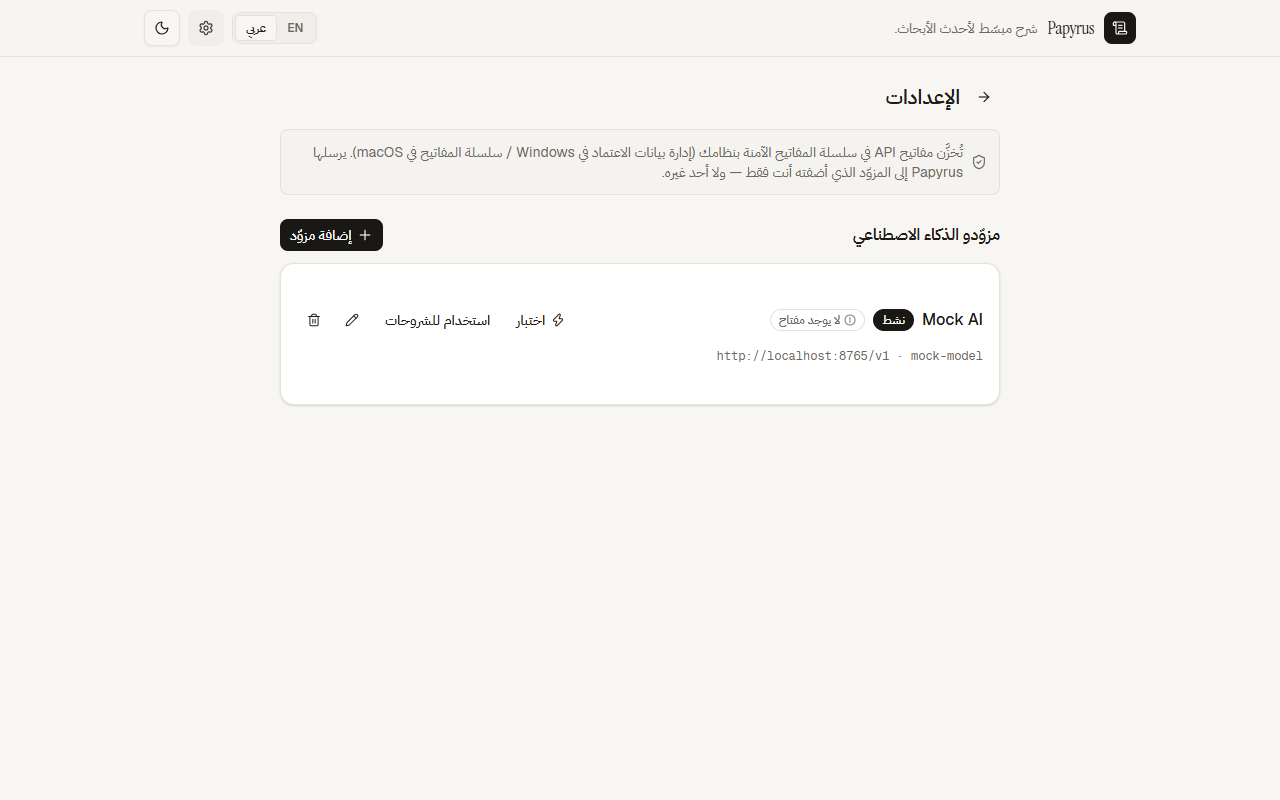
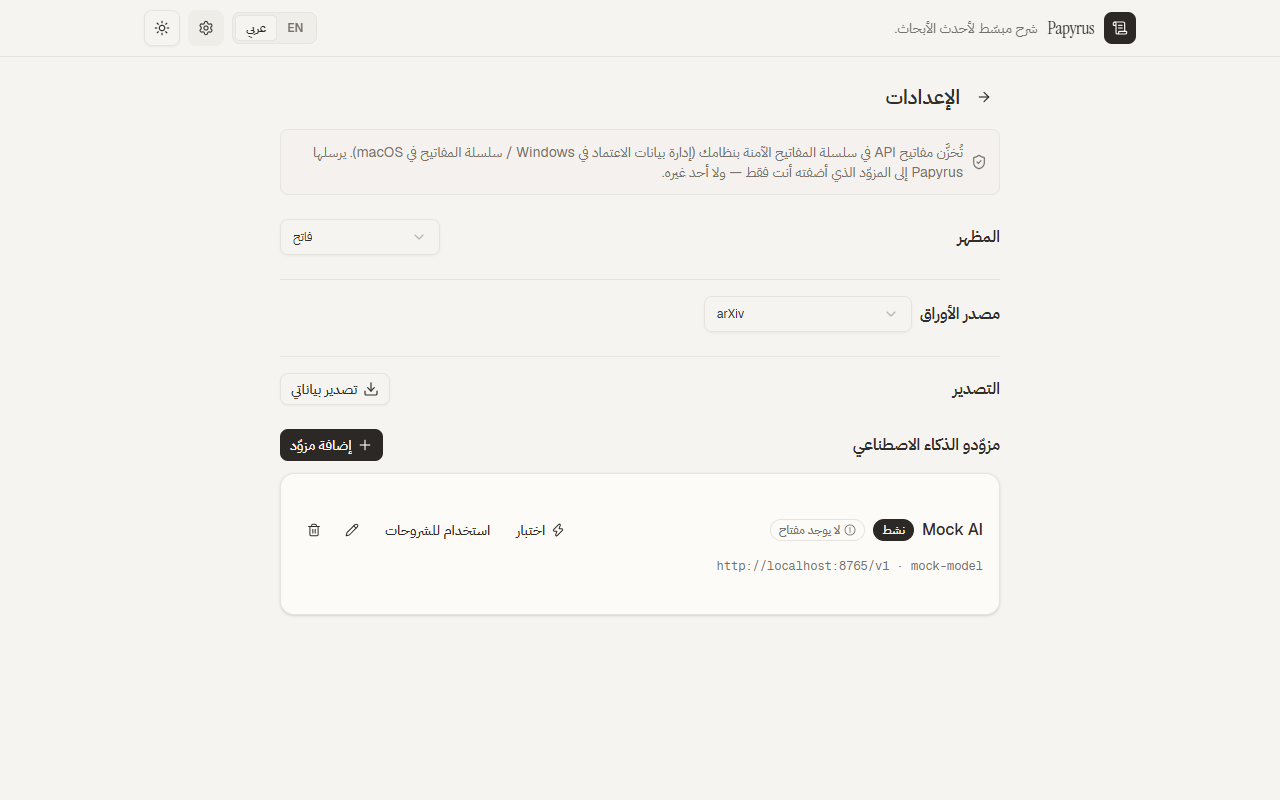
docs: refresh README for the shipped features and re-capture screenshots
- features table: corrected the Bilingual row (IBM Plex Sans Arabic,
  not Cairo), the theme row now lists the three palettes, and new rows
  cover citation counts, load more, the Semantic Scholar source,
  provider failover and data export; the PDF reader row mentions
  shortcuts, position memory and copy
- audit row test counts updated (128 frontend / 70 Rust)
- roadmap: removed shipped items (failover, second source), added the
  curated daily selection spike and the optional S2 key
- project layout: plans folder description updated (13 plans)
- how-to and paper-flow sections describe the new theme picker and the
  source switcher
- screenshots re-captured against the current UI

diff --git a/README.md b/README.md
@@ -18,21 +18,26 @@ react-i18next. Backend logic is written in Rust.
 
 ## Features
 
-| Feature             | What it does                                                                                                                                                  |
-| ------------------- | ------------------------------------------------------------------------------------------------------------------------------------------------------------- |
-| Latest papers       | Fetches the newest arXiv papers, newest first, for 6 fields (AI, machine learning, language, vision, neural networks, statistics) plus free keyword search    |
-| Browse by day       | Step back through any past day (arXiv date-range queries), or pick a day from the collected history list                                                      |
-| Daily history       | The app automatically collects each day's papers for the current field (last 14 days on first launch, 30 days kept), so past days are always available        |
-| AI explanations     | Explains any paper in 200 to 300 plain words, streamed live, in the language of the interface (English or Arabic)                                             |
-| Markdown answers    | AI answers render as real markdown: headings, lists, tables, math equations (KaTeX) and mermaid diagrams, styled to the app and RTL-aware                     |
-| In-app PDF reader   | Open any paper's PDF inside the app: page navigation, zoom, find-in-page search with highlights, and text selection. PDFs are cached on disk                  |
-| Whole-paper mentor  | The mentor reads the paper section by section and explains each one (press Continue between sections), then gives a final synthesis of the whole paper        |
-| Paper chat          | Ask anything about the paper in the Ask tab. Answers are grounded in the paper, and any passage you select in the PDF becomes context for your question       |
-| Your providers      | Works with OpenAI, OpenRouter, DeepSeek, Groq, Mistral, Ollama (local) or any custom base URL and model name                                                  |
-| Privacy first       | API keys live in the OS keychain (Windows Credential Manager / macOS Keychain). Paper fetching and AI calls happen in the Rust backend, never in the web page |
-| Bilingual           | Instant English to Arabic switching, full RTL layout, Cairo font                                                                                              |
-| Light and dark mode | Theme toggle, remembered between sessions                                                                                                                     |
-| Favorites           | Bookmark papers and filter the list to show only saved ones                                                                                                   |
+| Feature             | What it does                                                                                                                                                                                                                                    |
+| ------------------- | ----------------------------------------------------------------------------------------------------------------------------------------------------------------------------------------------------------------------------------------------- |
+| Latest papers       | Fetches the newest arXiv papers, newest first, for 6 fields (AI, machine learning, language, vision, neural networks, statistics) plus free keyword search                                                                                      |
+| Browse by day       | Step back through any past day (arXiv date-range queries), or pick a day from the collected history list                                                                                                                                        |
+| Daily history       | The app automatically collects each day's papers for the current field (last 14 days on first launch, 30 days kept), so past days are always available                                                                                          |
+| AI explanations     | Explains any paper in 200 to 300 plain words, streamed live, in the language of the interface (English or Arabic)                                                                                                                               |
+| Markdown answers    | AI answers render as real markdown: headings, lists, tables, math equations (KaTeX) and mermaid diagrams, styled to the app and RTL-aware                                                                                                       |
+| In-app PDF reader   | Open any paper's PDF inside the app: page navigation, zoom, find-in-page search with highlights, and text selection. Keyboard shortcuts (arrows, Ctrl/Cmd+F), reading position memory, one-click copy of any selection. PDFs are cached on disk |
+| Whole-paper mentor  | The mentor reads the paper section by section and explains each one (press Continue between sections), then gives a final synthesis of the whole paper                                                                                          |
+| Paper chat          | Ask anything about the paper in the Ask tab. Answers are grounded in the paper, and any passage you select in the PDF becomes context for your question                                                                                         |
+| Your providers      | Works with OpenAI, OpenRouter, DeepSeek, Groq, Mistral, Ollama (local) or any custom base URL and model name                                                                                                                                    |
+| Privacy first       | API keys live in the OS keychain (Windows Credential Manager / macOS Keychain). Paper fetching and AI calls happen in the Rust backend, never in the web page                                                                                   |
+| Bilingual           | Instant English to Arabic switching, full RTL layout, bundled IBM Plex Sans Arabic font                                                                                                                                                         |
+| Three themes        | Light (soft, low-contrast day palette), Sepia (warm paper for reading) and Dark, switched from the top bar or the Appearance select in Settings                                                                                                 |
+| Favorites           | Bookmark papers and filter the list to show only saved ones                                                                                                                                                                                     |
+| Citation counts     | "Cited by N" on every card from Semantic Scholar (batched, cached on disk for 7 days, failure-proof)                                                                                                                                            |
+| Load more           | Fetch the next page of papers instead of stopping at 20                                                                                                                                                                                         |
+| Second paper source | Semantic Scholar search (citation counts, TLDRs, venues) with automatic fallback to arXiv and a dismissible notice when it happens                                                                                                              |
+| Provider failover   | If the active AI provider fails, the next one in your list answers automatically ("Explained by ..." note)                                                                                                                                      |
+| Export your data    | One click exports your saved papers and chat transcripts to a timestamped JSON file in Documents                                                                                                                                                |
 
 ## Screenshots
 
@@ -68,11 +73,15 @@ Papyrus has two parts that talk to each other:
 ```
 
 **The paper flow.** When you pick a field (for example cs.AI), the frontend
-asks the Rust backend for the newest papers. The backend calls the arXiv
-API, parses the XML answer, and returns a list of papers with title,
-authors, date, abstract, categories and a PDF link. arXiv sends no
-permission headers for browser calls, so this always happens in the
-backend, never directly from the web page.
+asks the Rust backend for the newest papers. By default the backend calls
+the arXiv API, parses the XML answer, and returns a list of papers with
+title, authors, date, abstract, categories and a PDF link. A source
+select in Settings switches to Semantic Scholar (search-only): the
+backend queries its search API with independent rate limits, maps the
+results (citation counts, TLDRs, venues, PDF links) into the same paper
+shape, and falls back to arXiv automatically if Semantic Scholar fails.
+arXiv sends no permission headers for browser calls, so fetching always
+happens in the backend, never directly from the web page.
 
 **The explanation flow.** When you click Explain on a paper, the backend
 reads your key from the OS keychain, builds a short request containing the
@@ -117,9 +126,11 @@ only ever knows whether a key exists, never its value.
    and type any question. The answer is grounded in the paper's text.
    Select a passage in the PDF first and the question is answered with
    that passage as context. Your chat history is kept per paper.
-8. **Switch language and theme.** Use the toggles in the top bar. The
-   whole interface flips to Arabic with full RTL, and explanations are
-   then written in Arabic. Your choice is remembered.
+8. **Switch language and theme.** Use the toggles in the top bar: the
+   language group flips the whole interface to Arabic with full RTL (and
+   explanations are then written in Arabic), and the theme button cycles
+   Light (soft, low contrast), Sepia (warm paper) and Dark. The same
+   choice lives in Settings under Appearance. Your choices are remembered.
 
 ## How many papers do you get?
 
@@ -233,7 +244,7 @@ installers for Windows, and the MIT license.
 | Corrupted or hand-edited localStorage could crash the settings page                                                                                        | Provider data is validated on load: malformed entries are dropped and dangling active-provider ids are repaired.                                                                                                                                                                                                                                                                                                                                                                                                          |
 | The keychain plugin was an unmaintained community plugin                                                                                                   | It was replaced with the maintained `keyring` crate, used directly against Windows Credential Manager and macOS Keychain.                                                                                                                                                                                                                                                                                                                                                                                                 |
 | The webview had a full keychain permission it never used                                                                                                   | The capability was removed (least privilege), leaving only `core:default` and `opener:allow-open-url`.                                                                                                                                                                                                                                                                                                                                                                                                                    |
-| The app started with no frontend tests and no quality gates                                                                                                | Vitest was added (87 frontend tests today), the Rust suite grew to 39 tests, and ESLint, Prettier, strict typecheck, clippy and rustfmt run on every commit through pre-commit hooks.                                                                                                                                                                                                                                                                                                                                     |
+| The app started with no frontend tests and no quality gates                                                                                                | Vitest was added (128 frontend tests today), the Rust suite grew to 70 tests, and ESLint, Prettier, strict typecheck, clippy and rustfmt run on every commit through pre-commit hooks.                                                                                                                                                                                                                                                                                                                                    |
 | The repo had no automated builds                                                                                                                           | A GitHub Actions workflow now runs the full gate suite and builds installers on Windows and macOS.                                                                                                                                                                                                                                                                                                                                                                                                                        |
 | The mock AI server refused browser requests (CORS)                                                                                                         | CORS headers and preflight handling were added, so the dev preview can stream test explanations.                                                                                                                                                                                                                                                                                                                                                                                                                          |
 | The interface looked like a default template: pure neutral grays, no accent, flat interactions                                                             | Redesign pass (taste-skill): warm paper-toned palette with a single ink-blue accent, pressed-button feedback, refined card typography (tracking, balanced titles, tabular numerals), active-category indicator, and a skip-to-content link.                                                                                                                                                                                                                                                                               |
@@ -351,7 +362,7 @@ src-tauri/          Rust backend
   capabilities/       webview permissions (least privilege)
 dev/                Development-only tools (mock AI server, screenshot capture, sample PDF)
 docs/               Screenshots and design specs
-plans/              The 28 improvement plans that shaped the final version
+plans/              The 13 improvement plans of the latest audit round (all done)
 ```
 
 ## Development
@@ -439,12 +450,13 @@ cargo test --manifest-path src-tauri/Cargo.toml live_fetch_from_arxiv -- --ignor
 
 ## Roadmap
 
-- Provider failover: if the active provider fails, try the next one
-  automatically (design spec ready in docs/spikes).
-- Second paper source: Semantic Scholar or OpenAlex for citation counts
-  and richer metadata (design spec ready in docs/spikes).
-- Daily digest: pick the most interesting papers of the day (history is
-  already collected; the digest would select and surface them).
+- Curated daily selection: a small hand-picked list of the day's most
+  interesting papers, ranked from the collected history (design spike
+  ready in docs/spikes/curated-daily.md; citation-based ranking starts
+  once papers are a few days old, because one-day-old papers are not
+  yet indexed by Semantic Scholar).
+- An optional Semantic Scholar API key in Settings for steadier citation
+  and search results (keyless works but is rate-limited).
 - macOS signing and notarization for a smoother install experience.
 
 ## License
